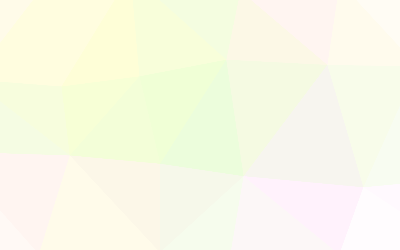
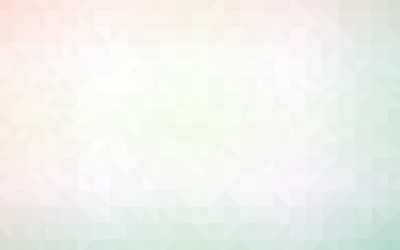
background

diff --git a/_site/assets/style2.css b/_site/assets/style2.css
@@ -4,7 +4,7 @@ html {
 body {
     font:15px 'Playfair Display', serif;
     color:#000000;
-background-image: url("trianglify-lowres.png");
+background-image: url("try.png");
 background-size:  cover;
     display: inline;
     min-height:100vh;

diff --git a/assets/style2.css b/assets/style2.css
@@ -4,7 +4,7 @@ html {
 body {
     font:15px 'Playfair Display', serif;
     color:#000000;
-background-image: url("trianglify-lowres.png");
+background-image: url("try.png");
 background-size:  cover;
     display: inline;
     min-height:100vh;
